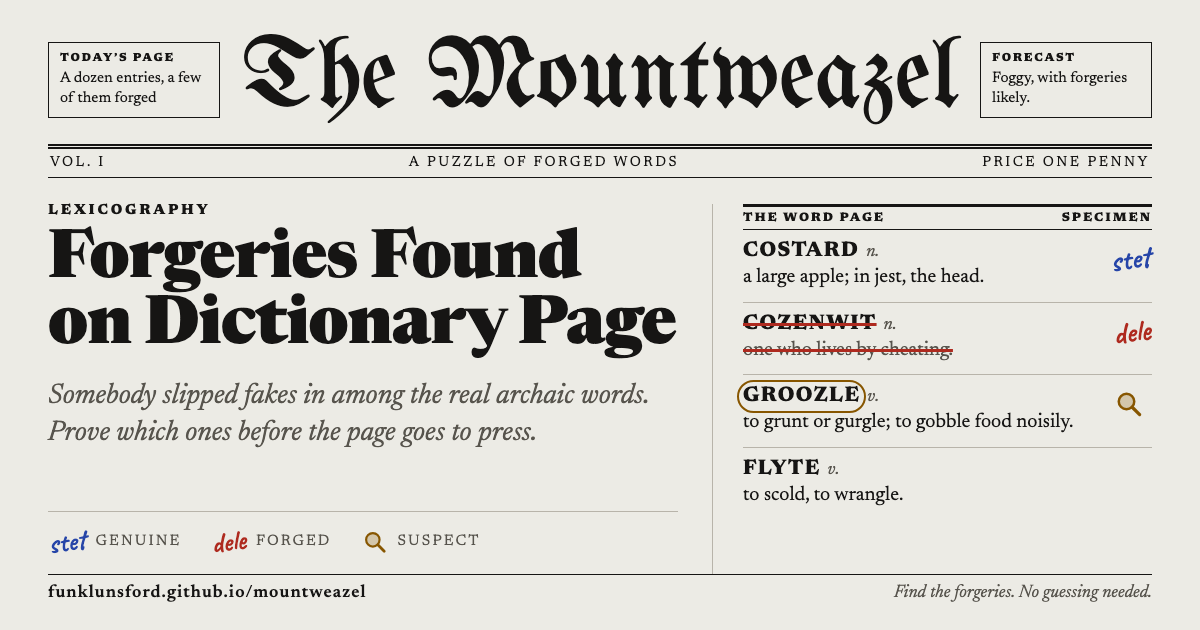
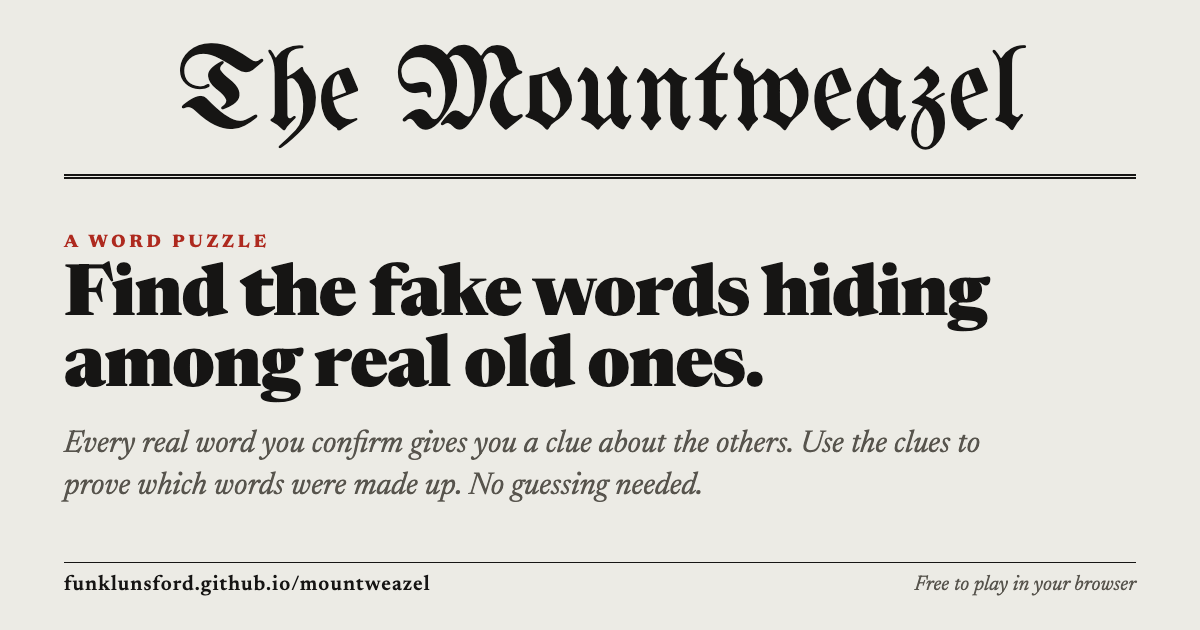
Share card: say plainly what the game is, without the word page
The card drops the specimen column of dictionary entries and the proof-mark
key. Under the nameplate it now reads "A word puzzle: find the fake words
hiding among real old ones", with one line on how: every real word you confirm
gives you a clue, and no guessing is needed. The preview's title, description
and alt text say the same.

diff --git a/share/card.html b/share/card.html
@@ -5,86 +5,46 @@
 <title>Mountweazel share card</title>
 <link rel="preconnect" href="https://fonts.googleapis.com">
 <link rel="preconnect" href="https://fonts.gstatic.com" crossorigin>
-<link rel="stylesheet" href="https://fonts.googleapis.com/css2?family=Caveat:wght@600&family=Newsreader:ital,opsz,wght@0,6..72,400;0,6..72,600;0,6..72,800;1,6..72,400&family=UnifrakturMaguntia&display=block">
+<link rel="stylesheet" href="https://fonts.googleapis.com/css2?family=Newsreader:ital,opsz,wght@0,6..72,400;0,6..72,600;0,6..72,800;1,6..72,400&family=UnifrakturMaguntia&display=block">
 <style>
-/* The link preview: a 1200 × 630 front page. `npm run share-card` renders it to card.png.
-   The specimen entries come from retired pages, so the card never gives away today's answers. */
+/* The link preview: 1200 × 630. `npm run share-card` renders it to card.png.
+   It says what the game is, in plain words, under the nameplate. No words from any page. */
 :root {
   --newsprint: #ecebe5;
   --ink: #161514;
   --ink-2: #57544d;
-  --rule: #b8b4aa;
-  --pencil: #2645a8;
   --dele: #ae2a1f;
-  --hunch: #875600;
 }
 * { box-sizing: border-box; }
 html, body { margin: 0; width: 1200px; height: 630px; overflow: hidden; }
 body { background: var(--newsprint); color: var(--ink); font-family: "Newsreader", Georgia, serif; }
-.card { display: flex; flex-direction: column; width: 1200px; height: 630px; padding: 30px 48px 28px; }
+.card { display: flex; flex-direction: column; width: 1200px; height: 630px; padding: 38px 64px 34px; }
 
-.masthead { display: grid; grid-template-columns: 172px 1fr 172px; align-items: center; gap: 20px; }
-.ear { padding: 9px 11px; border: 1.5px solid var(--ink); font-size: 15px; line-height: 1.3; }
-.ear b { display: block; margin-bottom: 3px; font-size: 11px; letter-spacing: .16em; text-transform: uppercase; }
-.nameplate { margin: 0; font-family: "UnifrakturMaguntia", serif; font-weight: 400; font-size: 100px; line-height: 1; text-align: center; white-space: nowrap; }
-.folio { display: flex; justify-content: space-between; margin-top: 14px; padding: 7px 2px; border-top: 5px double var(--ink); border-bottom: 1.5px solid var(--ink); font-size: 14px; letter-spacing: .18em; text-transform: uppercase; }
+.nameplate { margin: 0; font-family: "UnifrakturMaguntia", serif; font-weight: 400; font-size: 118px; line-height: 1; text-align: center; }
+.rule { margin-top: 18px; border-top: 5px double var(--ink); }
 
-.front { display: grid; grid-template-columns: 1fr 440px; gap: 34px; flex: 1; margin-top: 26px; min-height: 0; }
-.lead { display: flex; flex-direction: column; min-height: 0; }
-.kicker { margin: 0; font-size: 14px; font-weight: 800; letter-spacing: .2em; text-transform: uppercase; }
-.headline { margin: 10px 0 18px; font-size: 66px; font-weight: 800; line-height: 1; letter-spacing: -.012em; font-variation-settings: "opsz" 72; text-wrap: balance; }
-.deck { margin: 0; font-size: 28px; font-style: italic; line-height: 1.32; color: var(--ink-2); }
+.lead { display: flex; flex: 1; flex-direction: column; justify-content: center; }
+.kicker { margin: 0; font-size: 18px; font-weight: 800; letter-spacing: .22em; text-transform: uppercase; color: var(--dele); }
+.headline { margin: 12px 0 18px; font-size: 70px; font-weight: 800; line-height: 1.02; letter-spacing: -.014em; font-variation-settings: "opsz" 72; text-wrap: balance; }
+.deck { margin: 0; max-width: 980px; font-size: 31px; font-style: italic; line-height: 1.34; color: var(--ink-2); text-wrap: pretty; }
 
-.legend { display: flex; align-items: center; gap: 30px; margin-top: auto; padding-top: 12px; border-top: 1px solid var(--rule); font-size: 15px; letter-spacing: .14em; text-transform: uppercase; color: var(--ink-2); }
-.legend span { display: inline-flex; align-items: center; gap: 10px; }
-.legend i { font-family: "Caveat", cursive; font-size: 28px; font-weight: 600; font-style: normal; letter-spacing: 0; text-transform: none; transform: rotate(-8deg); }
-.legend svg { color: var(--hunch); }
-.page { padding-left: 30px; border-left: 1.5px solid var(--rule); }
-.section { display: flex; justify-content: space-between; padding: 5px 0; border-top: 3px solid var(--ink); border-bottom: 1.5px solid var(--ink); font-size: 12px; font-weight: 800; letter-spacing: .16em; text-transform: uppercase; }
-.entry { position: relative; padding: 11px 62px 11px 0; border-bottom: 1px solid var(--rule); }
-.entry:last-child { border-bottom: 0; }
-.hw { font-size: 21px; font-weight: 800; letter-spacing: .07em; text-transform: uppercase; }
-.pos { margin-left: 7px; font-size: 18px; font-style: italic; color: var(--ink-2); }
-.def { display: block; margin-top: 3px; font-size: 20px; line-height: 1.28; }
-.mark { position: absolute; right: 2px; top: 10px; font-family: "Caveat", cursive; font-size: 30px; font-weight: 600; transform: rotate(-8deg); }
-.stet { color: var(--pencil); }
-.dele { color: var(--dele); }
-.fake .hw, .fake .def { text-decoration: line-through; text-decoration-color: var(--dele); text-decoration-thickness: 3px; }
-.fake .def { color: var(--ink-2); }
-.suspect .hw { outline: 2.5px solid var(--hunch); outline-offset: 4px; border-radius: 999px; }
-.lens { position: absolute; right: 8px; top: 14px; color: var(--hunch); }
-
-.foot { display: flex; justify-content: space-between; align-items: baseline; padding-top: 9px; border-top: 1.5px solid var(--ink); font-size: 18px; }
-.url { font-weight: 600; letter-spacing: .06em; }
+.foot { display: flex; justify-content: space-between; align-items: baseline; padding-top: 12px; border-top: 1.5px solid var(--ink); font-size: 21px; }
+.url { font-weight: 600; letter-spacing: .05em; }
 .tag { font-style: italic; color: var(--ink-2); }
 </style>
 </head>
 <body>
 <div class="card">
-  <header class="masthead">
-    <div class="ear"><b>Today’s page</b>A dozen entries, a few of them forged</div>
-    <h1 class="nameplate">The Mountweazel</h1>
-    <div class="ear"><b>Forecast</b>Foggy, with forgeries likely.</div>
-  </header>
-  <div class="folio"><span>Vol. I</span><span>A puzzle of forged words</span><span>Price one penny</span></div>
+  <h1 class="nameplate">The Mountweazel</h1>
+  <div class="rule"></div>
 
-  <div class="front">
-    <div class="lead">
-      <p class="kicker">Lexicography</p>
-      <h2 class="headline">Forgeries Found on Dictionary Page</h2>
-      <p class="deck">Somebody slipped fakes in among the real archaic words. Prove which ones before the page goes to press.</p>
-      <p class="legend"><span><i class="stet">stet</i> genuine</span><span><i class="dele">dele</i> forged</span><span><svg viewBox="0 0 24 24" width="26" height="26" aria-hidden="true"><circle cx="10" cy="10" r="6.2" fill="currentColor" fill-opacity=".25" stroke="currentColor" stroke-width="2"/><path d="M14.6 14.6 20.5 20.5" stroke="currentColor" stroke-width="2.6" stroke-linecap="round"/></svg> suspect</span></p>
-    </div>
-    <div class="page">
-      <div class="section"><span>The word page</span><span>Specimen</span></div>
-      <div class="entry"><span class="hw">costard</span><span class="pos">n.</span><span class="def">a large apple; in jest, the head.</span><span class="mark stet">stet</span></div>
-      <div class="entry fake"><span class="hw">cozenwit</span><span class="pos">n.</span><span class="def">one who lives by cheating.</span><span class="mark dele">dele</span></div>
-      <div class="entry suspect"><span class="hw">groozle</span><span class="pos">v.</span><span class="def">to grunt or gurgle; to gobble food noisily.</span><svg class="lens" viewBox="0 0 24 24" width="30" height="30" aria-hidden="true"><circle cx="10" cy="10" r="6.2" fill="currentColor" fill-opacity=".25" stroke="currentColor" stroke-width="2"/><path d="M14.6 14.6 20.5 20.5" stroke="currentColor" stroke-width="2.6" stroke-linecap="round"/></svg></div>
-      <div class="entry"><span class="hw">flyte</span><span class="pos">v.</span><span class="def">to scold, to wrangle.</span></div>
-    </div>
+  <div class="lead">
+    <p class="kicker">A word puzzle</p>
+    <h2 class="headline">Find the fake words hiding among real old ones.</h2>
+    <p class="deck">Every real word you confirm gives you a clue about the others. Use the clues to prove which words were made up. No guessing needed.</p>
   </div>
 
-  <footer class="foot"><span class="url">funklunsford.github.io/mountweazel</span><span class="tag">Find the forgeries. No guessing needed.</span></footer>
+  <footer class="foot"><span class="url">funklunsford.github.io/mountweazel</span><span class="tag">Free to play in your browser</span></footer>
 </div>
 </body>
 </html>

diff --git a/index.html b/index.html
@@ -5,25 +5,25 @@
 <meta name="viewport" content="width=device-width, initial-scale=1, viewport-fit=cover">
 <style>body { margin: 0; }</style>
 <title>Mountweazel</title>
-<meta name="description" content="Somebody slipped fakes into a dictionary page of archaic words. Find the forgeries by deduction, no guessing needed.">
+<meta name="description" content="A word puzzle: find the fake words hiding among real old ones. Every real word you confirm gives you a clue about the others; use the clues to prove which were made up. No guessing needed.">
 <link rel="canonical" href="https://funklunsford.github.io/mountweazel/">
 <meta name="theme-color" content="#ecebe5">
 <!-- Link previews: share/card.html, rendered to share/card.png by `npm run share-card`. -->
 <meta property="og:type" content="website">
 <meta property="og:site_name" content="Mountweazel">
-<meta property="og:title" content="The Mountweazel">
-<meta property="og:description" content="Somebody slipped fakes into a dictionary page of archaic words. Find the forgeries by deduction, no guessing needed.">
+<meta property="og:title" content="The Mountweazel: find the fake words">
+<meta property="og:description" content="A word puzzle: find the fake words hiding among real old ones. Every real word you confirm gives you a clue about the others; use the clues to prove which were made up. No guessing needed.">
 <meta property="og:url" content="https://funklunsford.github.io/mountweazel/">
 <meta property="og:image" content="https://funklunsford.github.io/mountweazel/share/card.png">
 <meta property="og:image:type" content="image/png">
 <meta property="og:image:width" content="1200">
 <meta property="og:image:height" content="630">
-<meta property="og:image:alt" content="The front page of The Mountweazel, headlined “Forgeries Found on Dictionary Page”, beside dictionary entries marked genuine, forged and under suspicion.">
+<meta property="og:image:alt" content="The Mountweazel, a word puzzle: find the fake words hiding among real old ones. Every real word you confirm gives you a clue about the others. No guessing needed.">
 <meta name="twitter:card" content="summary_large_image">
-<meta name="twitter:title" content="The Mountweazel">
-<meta name="twitter:description" content="Somebody slipped fakes into a dictionary page of archaic words. Find the forgeries by deduction, no guessing needed.">
+<meta name="twitter:title" content="The Mountweazel: find the fake words">
+<meta name="twitter:description" content="A word puzzle: find the fake words hiding among real old ones. Every real word you confirm gives you a clue about the others; use the clues to prove which were made up. No guessing needed.">
 <meta name="twitter:image" content="https://funklunsford.github.io/mountweazel/share/card.png">
-<meta name="twitter:image:alt" content="The front page of The Mountweazel, headlined “Forgeries Found on Dictionary Page”, beside dictionary entries marked genuine, forged and under suspicion.">
+<meta name="twitter:image:alt" content="The Mountweazel, a word puzzle: find the fake words hiding among real old ones. Every real word you confirm gives you a clue about the others. No guessing needed.">
 <link rel="preconnect" href="https://fonts.googleapis.com">
 <link rel="preconnect" href="https://fonts.gstatic.com" crossorigin>
 <link rel="stylesheet" href="https://fonts.googleapis.com/css2?family=Caveat:wght@600&family=Newsreader:ital,opsz,wght@0,6..72,400;0,6..72,600;0,6..72,800;1,6..72,400&family=UnifrakturMaguntia&display=swap">

diff --git a/README.md b/README.md
@@ -14,7 +14,7 @@ Every merge to `main` runs `npm run check` and, if every page passes, publishes 
 
 ## Share card
 
-When the site's link is shared, previews show `share/card.png`: a 1200 × 630 front page set in the game's own type. It's drawn in `share/card.html`; after changing that, run `npm run share-card`, which renders it with headless Chrome (set `CHROME` to Chrome's path if it isn't in the usual macOS place), and commit the PNG. Its specimen entries come from retired pages, so the card never gives away a live page's answers. `index.html` carries the Open Graph and Twitter tags that point to it.
+When the site's link is shared, previews show `share/card.png`: a 1200 × 630 card with the nameplate and a plain statement of what the game is. It shows no words from any page. It's drawn in `share/card.html`; after changing that, run `npm run share-card`, which renders it with headless Chrome (set `CHROME` to Chrome's path if it isn't in the usual macOS place), and commit the PNG. `index.html` carries the Open Graph and Twitter tags that point to it, and their title and description say the same thing in words.
 
 - One entry starts verified. Each genuine entry you verify opens with its real history and a note about the other entries.
 - Tap an entry to call it genuine or fake. Tap the magnifying glass to mark a suspect while you think.
